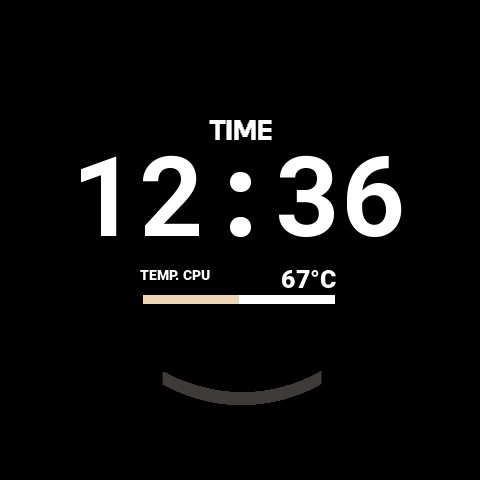
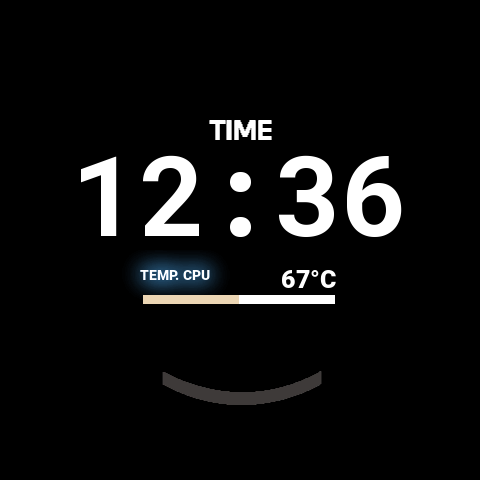
Improve GTK app sizing and labels

Changed region(s): [[0.2812, 0.5312, 0.4688, 0.625]]

diff --git a/theme-editor-gtk.py b/theme-editor-gtk.py
@@ -214,10 +214,10 @@ class ThemeEditorWindow(Adw.ApplicationWindow):
         super().__init__(
             application=app,
             title=f"Theme Editor — {theme_name}",
-            default_width=1380,
-            default_height=820,
+            default_width=1540,
+            default_height=900,
         )
-        self.set_size_request(980, 640)
+        self.set_size_request(1180, 720)
 
         self.theme_name = theme_name
         self.theme_dir = THEMES_DIR / theme_name
@@ -250,7 +250,7 @@ class ThemeEditorWindow(Adw.ApplicationWindow):
         header.set_title_widget(
             Adw.WindowTitle(
                 title=theme_name,
-                subtitle="GTK4 visual theme editor",
+                subtitle="Theme editor",
             )
         )
         toolbar.add_top_bar(header)
@@ -271,7 +271,7 @@ class ThemeEditorWindow(Adw.ApplicationWindow):
 
         classic_btn = Gtk.Button(
             icon_name="applications-system-symbolic",
-            tooltip_text="Open the classic editor with advanced tools",
+            tooltip_text="Open the classic editor",
         )
         classic_btn.connect("clicked", lambda *_: self.open_classic_editor())
         header.pack_end(classic_btn)
@@ -306,14 +306,18 @@ class ThemeEditorWindow(Adw.ApplicationWindow):
         header.pack_end(media_btn)
 
         body = Gtk.Paned(orientation=Gtk.Orientation.HORIZONTAL)
-        body.set_position(290)
+        body.set_position(340)
+        body.set_shrink_start_child(False)
+        body.set_shrink_end_child(False)
         toolbar.set_content(body)
 
         left = self.build_elements_panel()
         body.set_start_child(left)
 
         center_right = Gtk.Paned(orientation=Gtk.Orientation.HORIZONTAL)
-        center_right.set_position(650)
+        center_right.set_position(740)
+        center_right.set_shrink_start_child(False)
+        center_right.set_shrink_end_child(False)
         body.set_end_child(center_right)
 
         center_right.set_start_child(self.build_preview_panel())
@@ -332,6 +336,7 @@ class ThemeEditorWindow(Adw.ApplicationWindow):
             margin_start=16,
             margin_end=16,
         )
+        box.set_size_request(320, -1)
 
         title = Gtk.Label(label="Theme elements", xalign=0)
         title.add_css_class("heading")
@@ -484,6 +489,7 @@ class ThemeEditorWindow(Adw.ApplicationWindow):
             margin_start=16,
             margin_end=16,
         )
+        box.set_size_request(560, -1)
 
         title = Gtk.Label(label="Live preview", xalign=0)
         title.add_css_class("heading")
@@ -530,6 +536,7 @@ class ThemeEditorWindow(Adw.ApplicationWindow):
     def build_properties_panel(self):
         scroll = Gtk.ScrolledWindow()
         scroll.set_policy(Gtk.PolicyType.NEVER, Gtk.PolicyType.AUTOMATIC)
+        scroll.set_size_request(420, -1)
 
         self.properties_box = Gtk.Box(
             orientation=Gtk.Orientation.VERTICAL,
@@ -552,17 +559,6 @@ class ThemeEditorWindow(Adw.ApplicationWindow):
         )
         self.path_label.add_css_class("dim-label")
         self.properties_box.append(self.path_label)
-
-        preset_hint = Gtk.Label(
-            label=(
-                "Use the preset menus for common values, "
-                "or type a custom value."
-            ),
-            xalign=0,
-            wrap=True,
-        )
-        preset_hint.add_css_class("dim-label")
-        self.properties_box.append(preset_hint)
 
         self.dynamic_group = Adw.PreferencesGroup()
         self.properties_box.append(self.dynamic_group)
@@ -972,7 +968,7 @@ class ThemeEditorWindow(Adw.ApplicationWindow):
         labels = tuple(label for label, _value in options)
         values = tuple(value for _label, value in options)
         dropdown = Gtk.DropDown.new_from_strings(labels)
-        dropdown.set_size_request(190, -1)
+        dropdown.set_size_request(220, -1)
         dropdown.set_valign(Gtk.Align.CENTER)
         dropdown.set_tooltip_text(
             "Choose a common value, or type a custom value in the field."
@@ -1019,14 +1015,14 @@ class ThemeEditorWindow(Adw.ApplicationWindow):
 
         labels = ["Choose a preset…"] + preset_names
         dropdown = Gtk.DropDown.new_from_strings(labels)
-        dropdown.set_size_request(190, -1)
+        dropdown.set_size_request(220, -1)
         dropdown.set_valign(Gtk.Align.CENTER)
         dropdown.set_tooltip_text("Fill available text fields")
         dropdown._theme_resetting_text_style = False
 
         row = Adw.ActionRow(
             title="Text style preset",
-            subtitle="Fill the available text fields without saving them.",
+            subtitle="Apply values to the current text fields.",
         )
         row.add_suffix(dropdown)
 
@@ -1615,7 +1611,7 @@ display.lcd.screen_image.save({str(self.preview_file)!r}, "PNG")
 
         effect_labels = ["Choose a preset…"] + text_effect_preset_names()
         effect_dropdown = Gtk.DropDown.new_from_strings(effect_labels)
-        effect_dropdown.set_size_request(220, -1)
+        effect_dropdown.set_size_request(250, -1)
         effect_dropdown.set_valign(Gtk.Align.CENTER)
         effect_dropdown.set_tooltip_text("Fill effect controls")
         effect_dropdown._theme_resetting_effect_preset = False
@@ -1786,8 +1782,8 @@ display.lcd.screen_image.save({str(self.preview_file)!r}, "PNG")
         effect_dropdown.connect("notify::selected", effect_preset_changed)
 
         scroll = Gtk.ScrolledWindow(
-            min_content_width=620,
-            min_content_height=560,
+            min_content_width=720,
+            min_content_height=620,
             propagate_natural_width=True,
             propagate_natural_height=True,
         )

diff --git a/configure_gtk_app.py b/configure_gtk_app.py
@@ -301,10 +301,10 @@ class SmartScreenWindow(Adw.ApplicationWindow):
         super().__init__(
             application=app,
             title="Turing Smart Screen",
-            default_width=1120,
-            default_height=720,
+            default_width=1280,
+            default_height=780,
         )
-        self.set_size_request(820, 560)
+        self.set_size_request(1020, 640)
         self.connect("close-request", self.on_close_request)
 
         self.current_theme = read_current_theme()
@@ -339,7 +339,7 @@ class SmartScreenWindow(Adw.ApplicationWindow):
         header.pack_end(menu_button)
 
         split = Gtk.Paned(orientation=Gtk.Orientation.HORIZONTAL)
-        split.set_position(230)
+        split.set_position(280)
         split.set_shrink_start_child(False)
         split.set_shrink_end_child(False)
         toolbar_view.set_content(split)
@@ -480,7 +480,7 @@ class SmartScreenWindow(Adw.ApplicationWindow):
         wrap.append(spacer)
 
         version_label = Gtk.Label(
-            label="GTK4 + Libadwaita preview",
+            label="Configuration app",
             xalign=0,
             margin_top=12,
             margin_bottom=16,
@@ -637,7 +637,7 @@ class SmartScreenWindow(Adw.ApplicationWindow):
         for title, subtitle_text, icon, action in (
             (
                 "Theme editor",
-                "Open the advanced visual editor.",
+                "Edit the active theme layout and components.",
                 "document-edit-symbolic",
                 "win.open-editor",
             ),
@@ -682,7 +682,9 @@ class SmartScreenWindow(Adw.ApplicationWindow):
 
     def build_themes_page(self) -> Gtk.Widget:
         split = Gtk.Paned(orientation=Gtk.Orientation.HORIZONTAL)
-        split.set_position(360)
+        split.set_position(430)
+        split.set_shrink_start_child(False)
+        split.set_shrink_end_child(False)
 
         left_box = Gtk.Box(
             orientation=Gtk.Orientation.VERTICAL,
@@ -692,6 +694,7 @@ class SmartScreenWindow(Adw.ApplicationWindow):
             margin_start=18,
             margin_end=18,
         )
+        left_box.set_size_request(390, -1)
 
         list_header = Gtk.Box(
             orientation=Gtk.Orientation.HORIZONTAL,
@@ -750,7 +753,7 @@ class SmartScreenWindow(Adw.ApplicationWindow):
 
         split.set_start_child(left_box)
 
-        right_clamp = Adw.Clamp(maximum_size=620)
+        right_clamp = Adw.Clamp(maximum_size=720)
         right_box = Gtk.Box(
             orientation=Gtk.Orientation.VERTICAL,
             spacing=18,
@@ -767,7 +770,7 @@ class SmartScreenWindow(Adw.ApplicationWindow):
 
         self.theme_page_picture = Gtk.Picture()
         self.theme_page_picture.set_content_fit(Gtk.ContentFit.CONTAIN)
-        self.theme_page_picture.set_size_request(420, 420)
+        self.theme_page_picture.set_size_request(460, 460)
         self.theme_page_picture.add_css_class("display-preview")
         right_box.append(self.theme_page_picture)
 
@@ -797,7 +800,7 @@ class SmartScreenWindow(Adw.ApplicationWindow):
         return split
 
     def build_tools_page(self) -> Gtk.Widget:
-        clamp = Adw.Clamp(maximum_size=760)
+        clamp = Adw.Clamp(maximum_size=860)
         scrolled = Gtk.ScrolledWindow()
         scrolled.set_child(clamp)
 
@@ -816,13 +819,12 @@ class SmartScreenWindow(Adw.ApplicationWindow):
         box.append(title)
 
         group = Adw.PreferencesGroup(
-            title="Current tools",
-            description="These buttons open the existing working interfaces during migration.",
+            title="Available tools",
         )
 
         for title_text, subtitle, icon, action in (
             (
-                "Advanced theme editor",
+                "Theme editor",
                 "Edit components, backgrounds, positions, and sensor templates.",
                 "document-edit-symbolic",
                 "win.open-editor",
@@ -854,7 +856,7 @@ class SmartScreenWindow(Adw.ApplicationWindow):
         return scrolled
 
     def build_settings_page(self) -> Gtk.Widget:
-        clamp = Adw.Clamp(maximum_size=760)
+        clamp = Adw.Clamp(maximum_size=860)
         scrolled = Gtk.ScrolledWindow()
         scrolled.set_child(clamp)
 

diff --git a/media_preparation_gtk_app.py b/media_preparation_gtk_app.py
@@ -68,10 +68,10 @@ class MediaPreparationWindow(Adw.ApplicationWindow):
         super().__init__(
             application=app,
             title="Prepare media",
-            default_width=1240,
-            default_height=820,
+            default_width=1380,
+            default_height=880,
         )
-        self.set_size_request(940, 660)
+        self.set_size_request(1120, 720)
         self.source_path: Path | None = None
         self.source_duration = 0.0
         self.source_width = 0
@@ -93,14 +93,16 @@ class MediaPreparationWindow(Adw.ApplicationWindow):
         header = Adw.HeaderBar()
         header.set_title_widget(
             Adw.WindowTitle(
-                title="Advanced media preparation",
+                title="Media preparation",
                 subtitle="Crop, rotate, align, style, convert, and upload",
             )
         )
         toolbar.add_top_bar(header)
 
         split = Gtk.Paned(orientation=Gtk.Orientation.HORIZONTAL)
-        split.set_position(570)
+        split.set_position(660)
+        split.set_shrink_start_child(False)
+        split.set_shrink_end_child(False)
         toolbar.set_content(split)
         split.set_start_child(self.build_controls())
         split.set_end_child(self.build_preview())
@@ -108,7 +110,7 @@ class MediaPreparationWindow(Adw.ApplicationWindow):
 
     def build_controls(self):
         scrolled = Gtk.ScrolledWindow(vexpand=True)
-        clamp = Adw.Clamp(maximum_size=620)
+        clamp = Adw.Clamp(maximum_size=720)
         scrolled.set_child(clamp)
         box = Gtk.Box(
             orientation=Gtk.Orientation.VERTICAL,
@@ -341,7 +343,8 @@ class MediaPreparationWindow(Adw.ApplicationWindow):
             margin_start=22,
             margin_end=22,
         )
-        title = Gtk.Label(label="Advanced framing preview", xalign=0)
+        box.set_size_request(500, -1)
+        title = Gtk.Label(label="Framing preview", xalign=0)
         title.add_css_class("title-2")
         box.append(title)
 
@@ -808,7 +811,7 @@ class MediaPreparationWindow(Adw.ApplicationWindow):
                 str(output),
                 *self.settings_args(),
             ],
-            "Converting advanced media…",
+            "Converting media…",
             self.on_conversion_complete,
             pulse=True,
         )
@@ -841,8 +844,8 @@ class MediaPreparationWindow(Adw.ApplicationWindow):
             title=f"Preview — {self.converted_path.name}",
             transient_for=self,
             modal=True,
-            default_width=560,
-            default_height=620,
+            default_width=660,
+            default_height=720,
         )
         box = Gtk.Box(
             orientation=Gtk.Orientation.VERTICAL,

diff --git a/video_manager_gtk_app.py b/video_manager_gtk_app.py
@@ -50,10 +50,10 @@ class VideoManagerWindow(Adw.ApplicationWindow):
         super().__init__(
             application=app,
             title="Turing Video Manager",
-            default_width=980,
-            default_height=660,
+            default_width=1120,
+            default_height=720,
         )
-        self.set_size_request(760, 520)
+        self.set_size_request(900, 600)
 
         self.selected_file: str | None = None
         self.storage_internal = False
@@ -102,7 +102,9 @@ class VideoManagerWindow(Adw.ApplicationWindow):
 
     def build_main_page(self):
         split = Gtk.Paned(orientation=Gtk.Orientation.HORIZONTAL)
-        split.set_position(430)
+        split.set_position(500)
+        split.set_shrink_start_child(False)
+        split.set_shrink_end_child(False)
 
         left_box = Gtk.Box(
             orientation=Gtk.Orientation.VERTICAL,
@@ -112,6 +114,7 @@ class VideoManagerWindow(Adw.ApplicationWindow):
             margin_start=18,
             margin_end=18,
         )
+        left_box.set_size_request(460, -1)
 
         storage_row = Adw.ComboRow(title="Storage")
         storage_row.set_model(
@@ -163,7 +166,7 @@ class VideoManagerWindow(Adw.ApplicationWindow):
 
         split.set_start_child(left_box)
 
-        right_clamp = Adw.Clamp(maximum_size=520)
+        right_clamp = Adw.Clamp(maximum_size=640)
         right_box = Gtk.Box(
             orientation=Gtk.Orientation.VERTICAL,
             spacing=18,